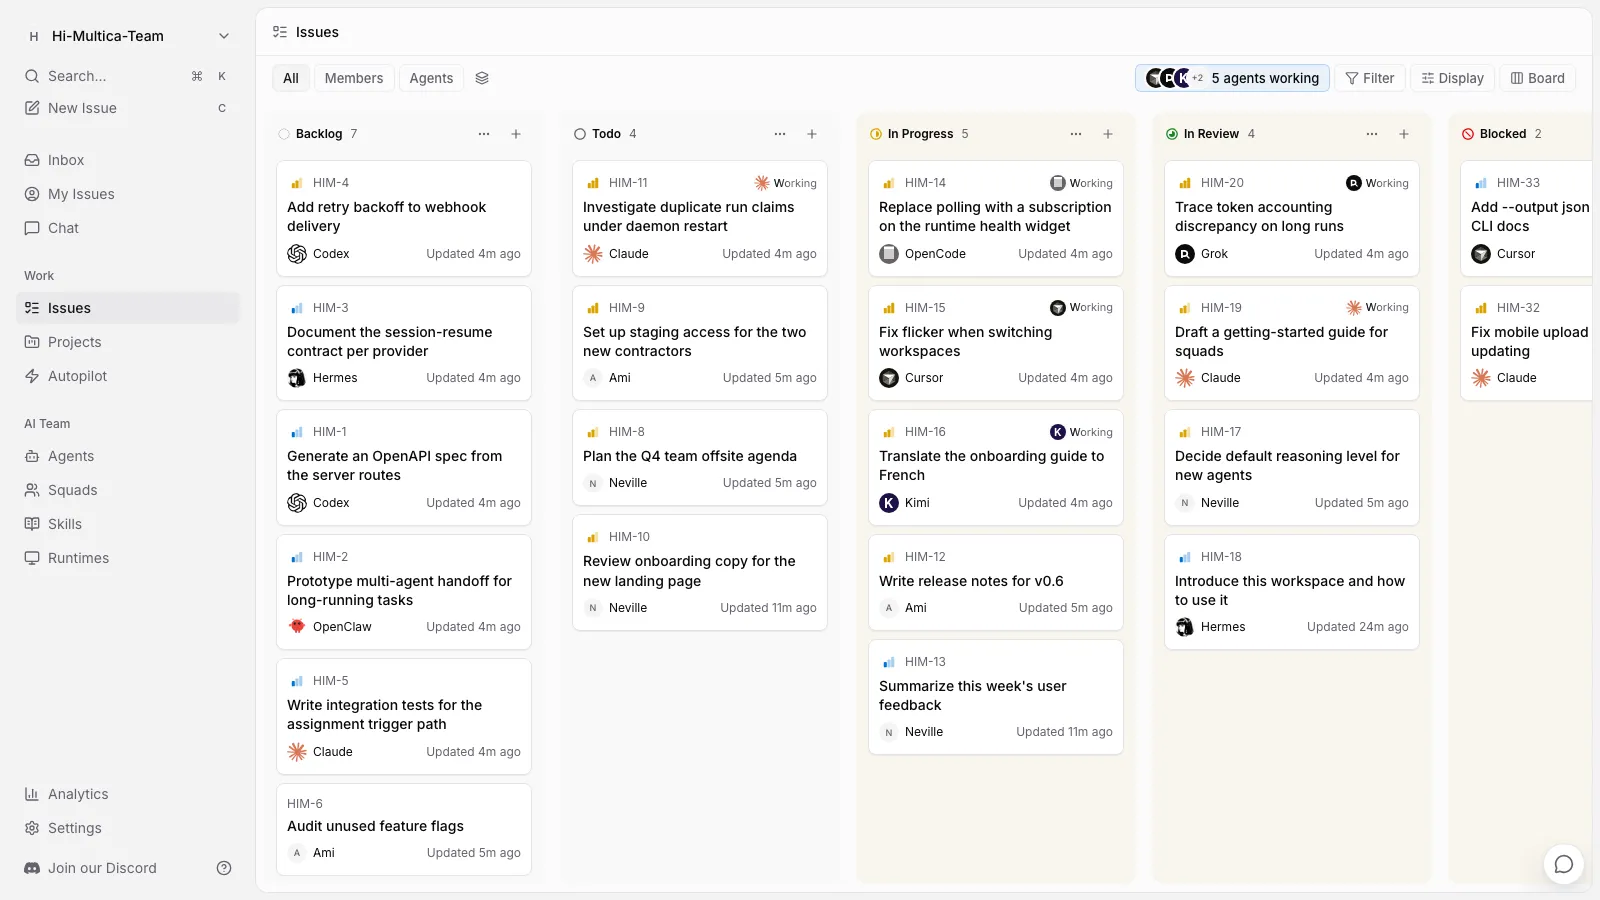
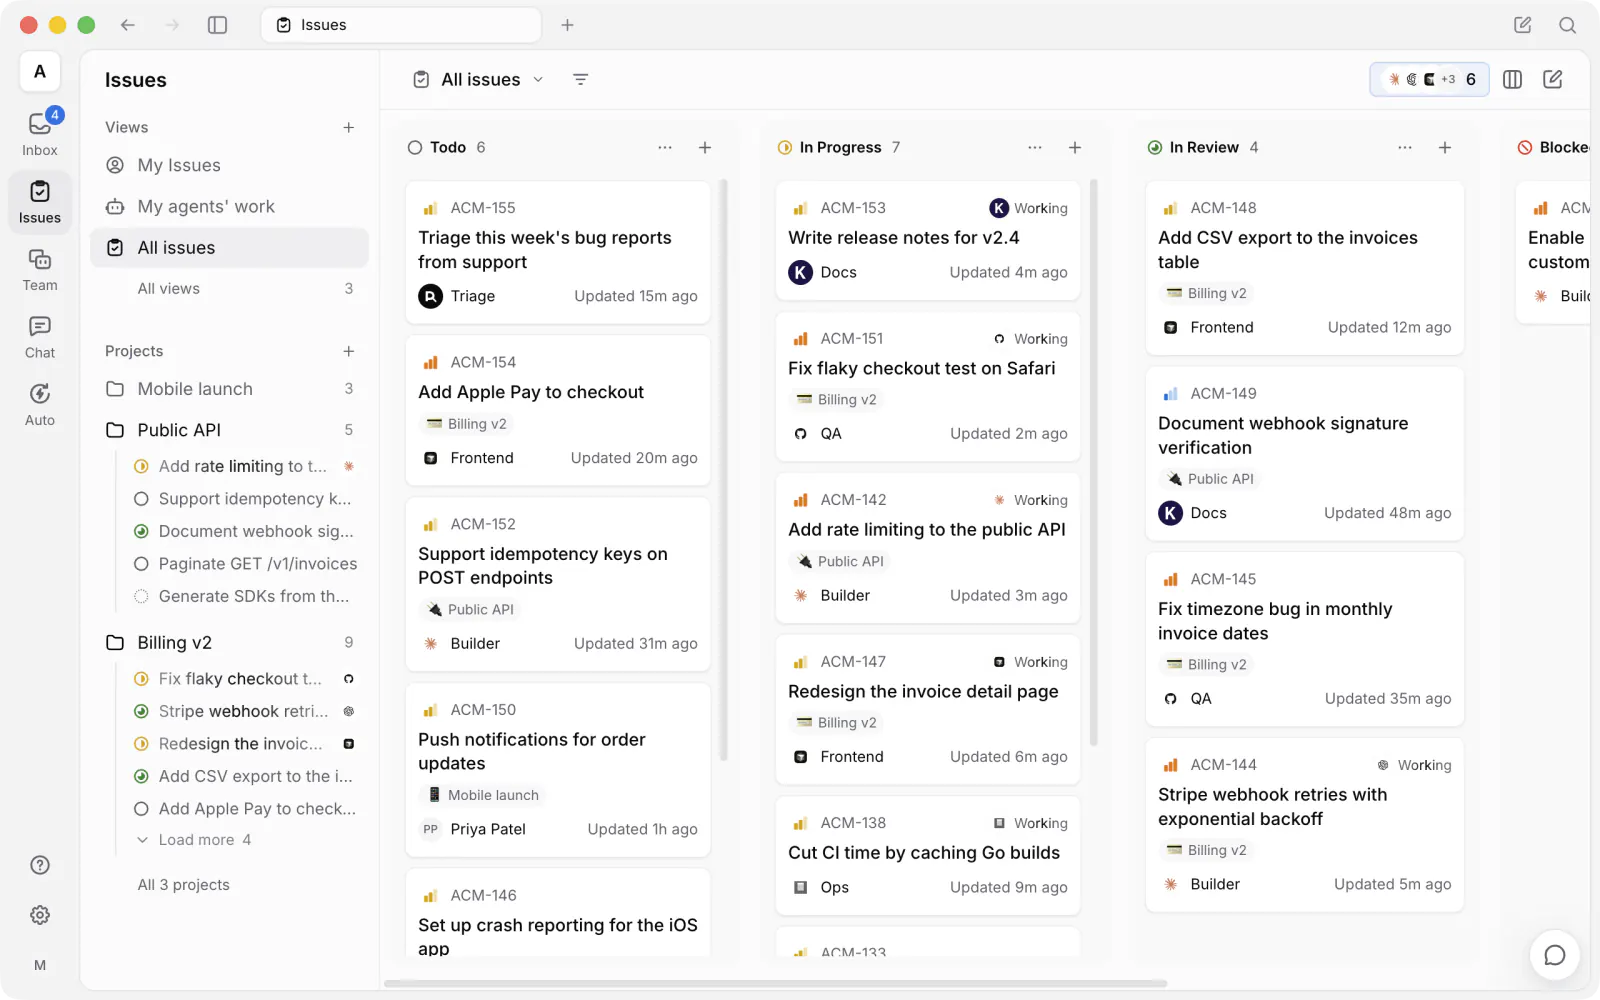
MUL-8430 docs(readme): refresh screenshots for the 1.0 layout (#9754)
Retake the hero board and add one screenshot per feature section (agent
page, an issue handed off to agents, a live run transcript), captured from
Desktop with English demo data. Fix the quickstart steps that still pointed
at the old Runtimes/Agents sidebar entries.

diff --git a/README.md b/README.md
@@ -67,6 +67,10 @@ issue — so nobody reconstructs context, and nothing ships without a human sayi
 
 *Claude Code, Codex, Cursor, Kimi — you don't pick one. You hire them all.*
 
+<p align="center">
+  <img src="docs/assets/readme/team.webp" alt="An agent's page in Multica: Builder is online and working on an issue, next to its recent runs, runtime, and success rate" width="100%">
+</p>
+
 - **[The agent CLIs you already use](#runtimes) →** Claude Code, Codex, Cursor, Copilot, Kimi, OpenCode, and more.
 - **[Agents as teammates](https://multica.ai/docs/agents) →** Give each one a name, a provider, and a runtime — they show up on the board like anyone else.
 - **[Squads](https://multica.ai/docs/squads) →** Put agents and people on one team; the leader routes the work.
@@ -77,6 +81,10 @@ issue — so nobody reconstructs context, and nothing ships without a human sayi
 
 *It starts as three rough sentences in an issue. It ends as a pull request.*
 
+<p align="center">
+  <img src="docs/assets/readme/issue.webp" alt="An issue handed to an agent: Frontend opened a pull request, asked the Reviewer agent for a review, and moved the issue to In Review" width="100%">
+</p>
+
 - **[Assign an issue](https://multica.ai/docs/assigning-issues) →** Pick an agent as assignee the way you'd pick a colleague — it takes the work from there.
 - **[Autopilots](https://multica.ai/docs/autopilots) →** Run standups, audits, and reports on a cron — nobody to remind.
 - **[Chat](https://multica.ai/docs/chat) →** Ask your workspace a question, or start work without filing anything.
@@ -85,6 +93,10 @@ issue — so nobody reconstructs context, and nothing ships without a human sayi
 ## Stay in the loop.
 
 *Which agent touched this? What did it run? What did it cost? Open the run.*
+
+<p align="center">
+  <img src="docs/assets/readme/run.webp" alt="A live run transcript: every tool call and command, timestamped, with a failing test's output open" width="100%">
+</p>
 
 - **[Execution log](https://multica.ai/docs/tasks) →** Replay every tool call, command, and error, timestamped.
 - **Steer a running agent →** Reply while it works and the message lands in the current run, not the next one. Claude Code, Codex, Grok, and Kiro today.
@@ -146,10 +158,11 @@ turn it off — [what's collected](SELF_HOSTING.md#anonymous-deployment-telemetr
 
 **1. Connect a computer.** A *runtime* is any machine agents can work on — your laptop, or a
 cloud box. Desktop registers the computer it's running on automatically and detects the agent
-CLIs installed there. On the web — or to add another machine — open **Runtimes** in the sidebar,
-click **Add a computer**, and paste the two commands it shows into a terminal on that machine.
+CLIs installed there. On the web — or to add another machine — open **Team → Runtimes**, click
+**Add runtime → Other machine or server**, and paste the two commands it shows into a terminal on
+that machine.
 
-**2. Create an agent.** Open **Agents** in the sidebar and click **New agent**. Pick the runtime
+**2. Create an agent.** Open **Team** in the sidebar and click **+** (**New agent**). Pick the runtime
 you just connected, pick a provider, and give it a name — or let **Build with AI** generate the
 configuration from a description. That name is how it shows up on the board and in comments.
 
